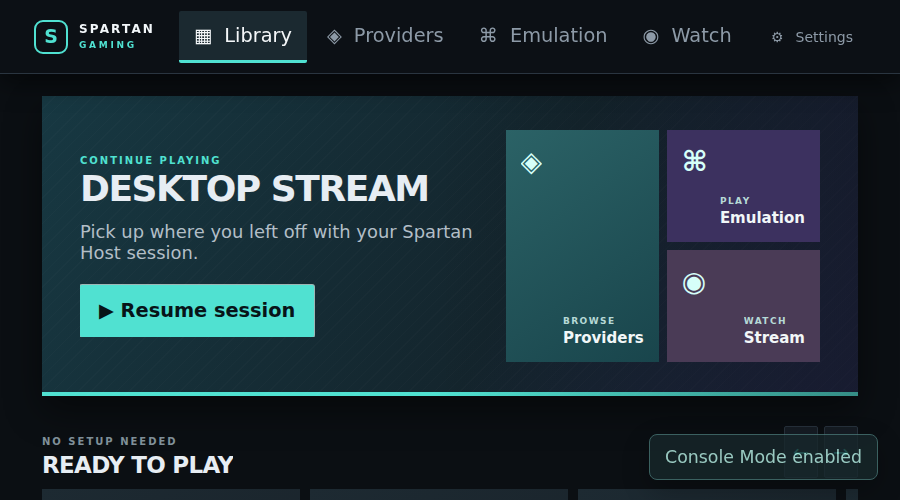
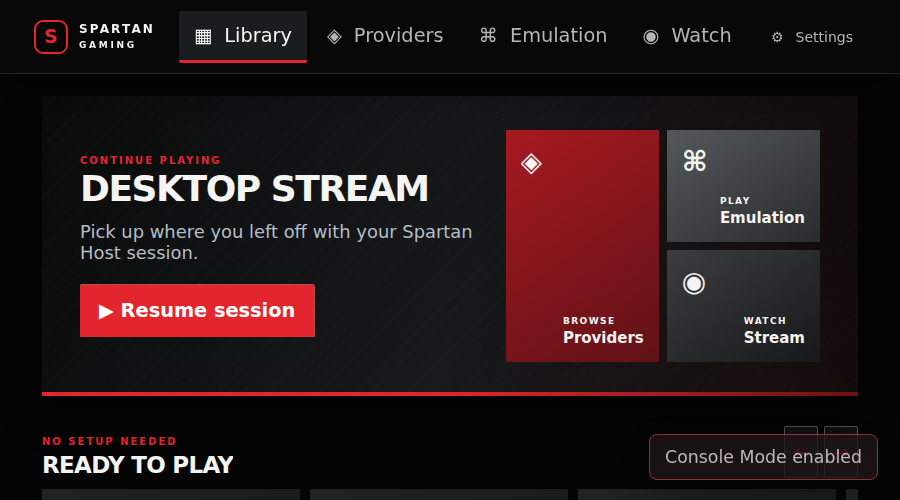
fix: restore Spartan brand colors in console UI

diff --git a/src/frontend/dashboard/console-mode.css b/src/frontend/dashboard/console-mode.css
@@ -446,3 +446,121 @@ body.console-mode .topbar .console-mode-toggle {
     font-size: 10px;
   }
 }
+
+/* Spartan brand correction: the console layout uses the supplied red, black, metallic and white identity. */
+body.console-mode {
+  --spartan-red: #e3262e;
+  --spartan-red-dark: #8f171d;
+  --spartan-black: #050505;
+  --spartan-gunmetal: #242628;
+  --spartan-steel: #55585b;
+  --spartan-silver: #b9bbbd;
+  --spartan-white: #f4f4f2;
+  --cyan: var(--spartan-red);
+  --violet: var(--spartan-silver);
+  --bg: var(--spartan-black);
+  --panel: #111214;
+  --panel2: var(--spartan-gunmetal);
+  --line: #45484b;
+  --muted: #b4b5b7;
+  color: var(--spartan-white);
+  background: var(--spartan-black);
+}
+body.console-mode .sidebar {
+  background: #080808;
+  border-color: var(--spartan-gunmetal);
+}
+body.console-mode .brand-mark {
+  border-color: var(--spartan-red);
+  color: var(--spartan-red);
+}
+body.console-mode .brand small,
+body.console-mode .main-nav .nav-item.is-active,
+body.console-mode .main-nav .nav-item:hover {
+  color: var(--spartan-white);
+}
+body.console-mode .main-nav .nav-item:hover,
+body.console-mode .main-nav .nav-item.is-active {
+  background: #1b1c1e;
+  border-bottom-color: var(--spartan-red);
+}
+body.console-mode .content {
+  background: var(--spartan-black);
+}
+body.console-mode .hero {
+  background: linear-gradient(115deg, #0a0a0a 0%, #17191b 55%, #2a1719 100%);
+  box-shadow:
+    inset 0 -4px 0 var(--spartan-red),
+    0 14px 34px #000b;
+}
+body.console-mode .hero::after {
+  background:
+    linear-gradient(90deg, transparent 48%, #0008),
+    repeating-linear-gradient(135deg, #ffffff05 0 1px, transparent 1px 9px);
+}
+body.console-mode .eyebrow.accent,
+body.console-mode .card-type,
+body.console-mode .shelf-heading .eyebrow {
+  color: var(--spartan-red);
+}
+body.console-mode .primary-button {
+  background: var(--spartan-red);
+  color: #fff;
+  box-shadow: 0 0 0 1px #ff7478aa;
+}
+body.console-mode .console-tile {
+  background: var(--spartan-gunmetal);
+  color: var(--spartan-white);
+}
+body.console-mode .console-tile:nth-child(1) {
+  background: linear-gradient(145deg, #a71920, #5f1217);
+}
+body.console-mode .console-tile:nth-child(2) {
+  background: linear-gradient(145deg, #55585b, #292b2d);
+}
+body.console-mode .console-tile:nth-child(3) {
+  background: linear-gradient(145deg, #3b3d40, #171819);
+}
+body.console-mode .console-tile small,
+body.console-mode .console-tile-icon {
+  color: var(--spartan-white);
+}
+body.console-mode .console-tile:hover,
+body.console-mode .console-tile:focus-visible {
+  outline-color: var(--spartan-red);
+  filter: brightness(1.2);
+}
+body.console-mode .shelf-viewport .card {
+  background: linear-gradient(145deg, #202224, #101112);
+  box-shadow: inset 0 -3px 0 var(--spartan-red);
+}
+body.console-mode .shelf-viewport .card:hover,
+body.console-mode .shelf-viewport .card:focus-within {
+  outline-color: var(--spartan-red);
+}
+body.console-mode .shelf-controls button,
+body.console-mode .console-mode-toggle {
+  color: var(--spartan-red);
+  border-color: var(--spartan-steel);
+  background: #111214;
+}
+body.console-mode .shelf-controls button:hover,
+body.console-mode .shelf-controls button:focus-visible,
+body.console-mode .console-mode-toggle:hover,
+body.console-mode .console-mode-toggle[aria-pressed='true'] {
+  border-color: var(--spartan-red);
+  background: #2b1215;
+  color: var(--spartan-white);
+}
+body.console-mode :where(button, a, input, select, textarea, [tabindex]):focus-visible {
+  outline-color: var(--spartan-red);
+}
+body.console-mode .toast {
+  border-color: var(--spartan-red);
+  background: #241012;
+  color: #ffd8d9;
+}
+body.console-mode .chip {
+  background: #303235;
+  color: var(--spartan-silver);
+}
